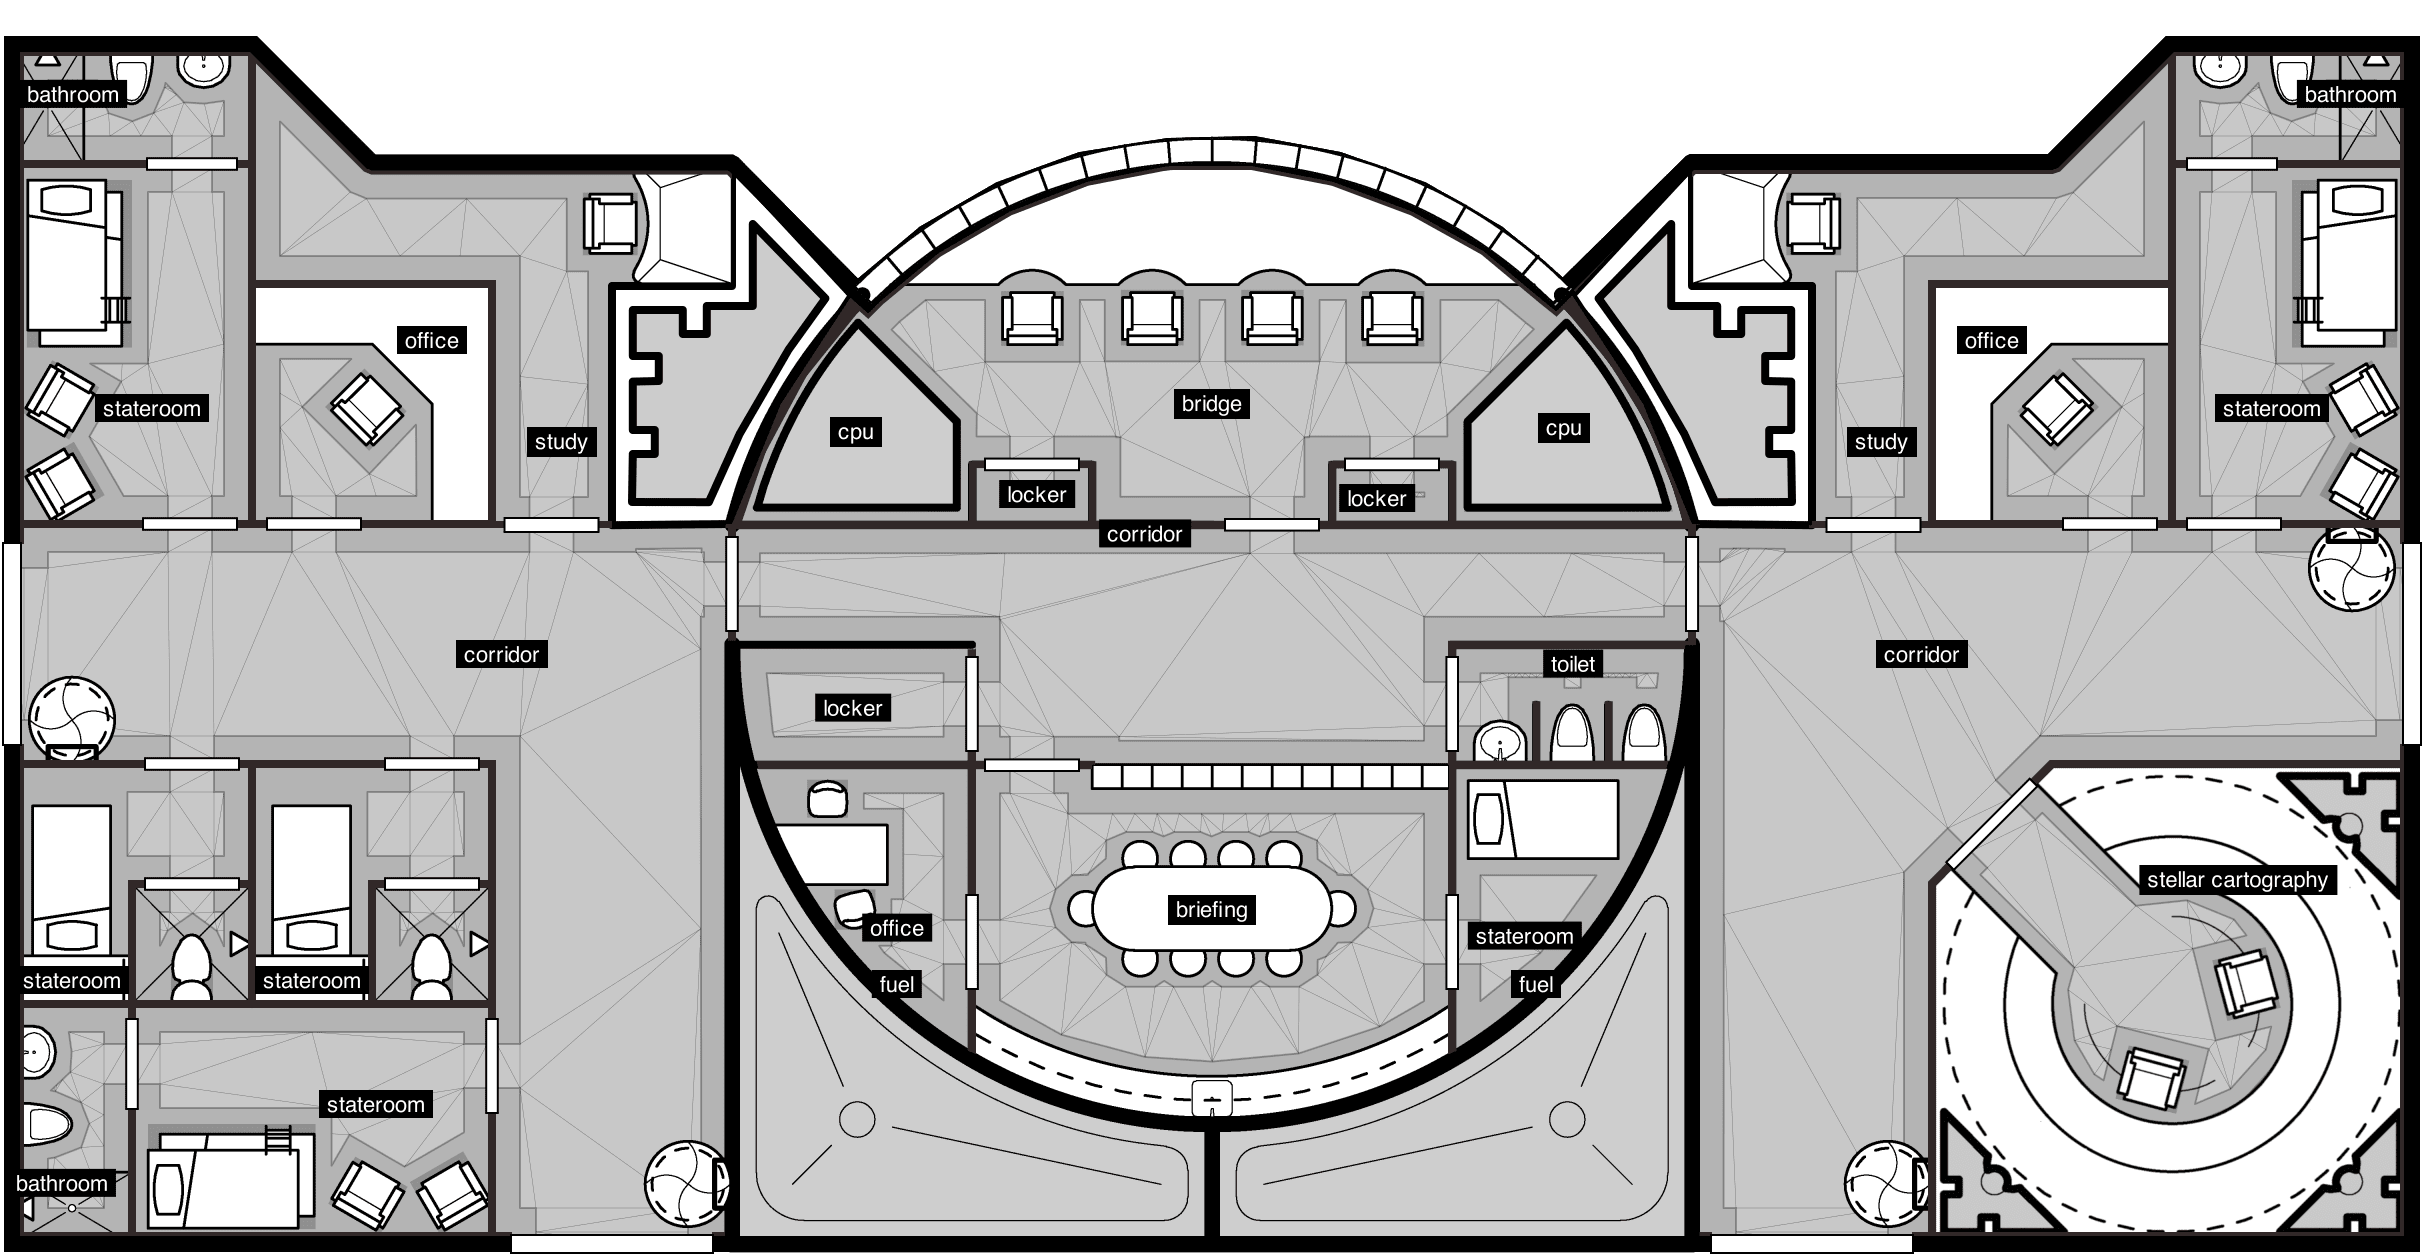
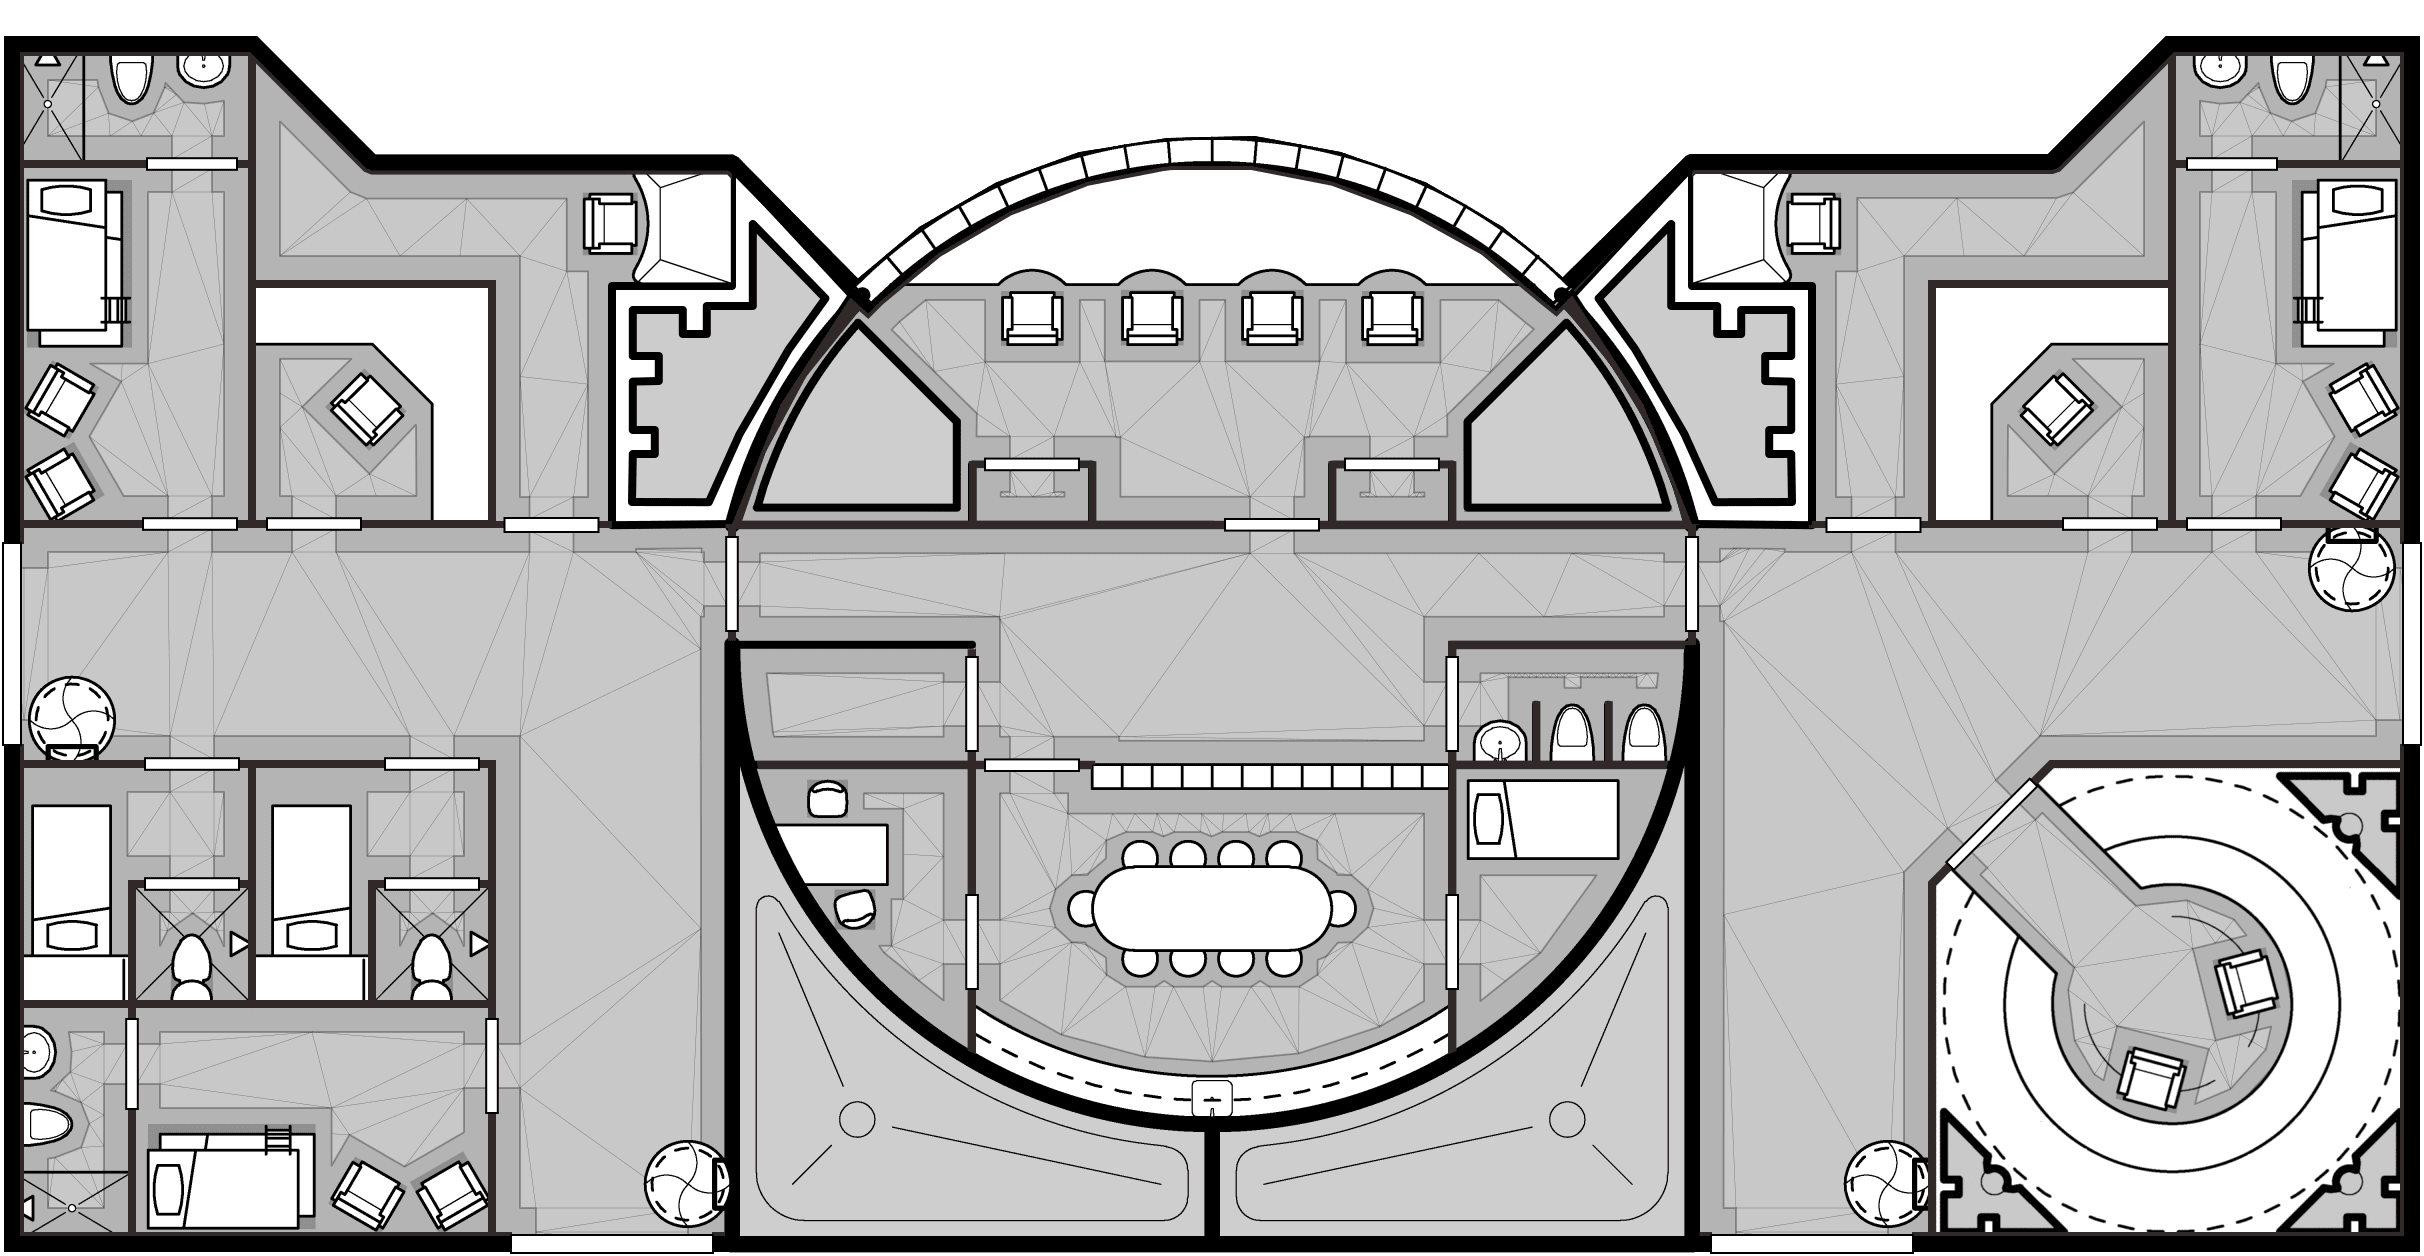
feat: towards labels canvas in FOV (fix bug)

diff --git a/src/projects/world/FOV.jsx b/src/projects/world/FOV.jsx
@@ -56,14 +56,6 @@ export default function FOV(props) {
         throw Error('parameter must be "show", "hide", "show-ms" or undefined')
       }
     },
-    onLoadGmImage(e) {
-      const imgEl = /** @type {HTMLImageElement} */ (e.target);
-      props.api.npcs.events.next({
-        key: 'unlit-geomorph-loaded',
-        gmKey: /** @type {Geomorph.LayoutKey} */ (imgEl.dataset.gmKey),
-        gmId: Number(imgEl.dataset.gmId),
-      });
-    },
     setRoom(gmId, roomId, doorId) {
       if (state.gmId !== gmId || state.roomId !== roomId || state.doorId === -1) {
         state.gmId = gmId;
@@ -142,30 +134,32 @@ export default function FOV(props) {
   return (
     <div
       className={cx("fov", rootCss)}
-      onLoad={state.onLoadGmImage}
       ref={el => el && (state.rootEl = el)}
     >
       {gms.map((gm, gmId) =>
-        <img
+        <div
           key={gmId}
-          className="geomorph-dark"
-          src={geomorphPngPath(gm.key, 'map')}
-          data-gm-key={gm.key}
-          data-gm-id={gmId}
-          draggable={false}
-          width={gm.pngRect.width}
-          height={gm.pngRect.height}
           style={{
-            clipPath: state.clipPath[gmId],
-            WebkitClipPath: state.clipPath[gmId],
-            left: gm.pngRect.x,
-            top: gm.pngRect.y,
             transform: gm.transformStyle,
-            transformOrigin: gm.transformOrigin,
-            // Avoid initial flicker on <Geomorphs> load first
-            background: 'white',
           }}
-        />
+        >
+          <img
+            className="geomorph-dark"
+            src={geomorphPngPath(gm.key, 'map')}
+            draggable={false}
+            width={gm.pngRect.width}
+            height={gm.pngRect.height}
+            style={{
+              clipPath: state.clipPath[gmId],
+              WebkitClipPath: state.clipPath[gmId],
+              left: gm.pngRect.x,
+              top: gm.pngRect.y,
+              // Avoid initial flicker on <Geomorphs> load first
+              background: 'white',
+            }}
+          />
+          {/* 🚧 canvas containing room labels */}
+        </div>
       )}
     </div>
   );
@@ -185,7 +179,6 @@ export default function FOV(props) {
  * @property {(Graph.GmRoomId & { key: string })[]} gmRoomIds
  * @property {number} mapTimeoutId
  * @property {CoreState} prev Previous state, last time we updated clip path
- * @property {(e: React.SyntheticEvent<HTMLElement>) => void} onLoadGmImage
  * @property {boolean} ready
  * @property {HTMLDivElement} rootEl
  * @property {(action?: NPC.FovMapAction, showMs?: number) => void} map

diff --git a/src/projects/world/Geomorphs.jsx b/src/projects/world/Geomorphs.jsx
@@ -85,6 +85,17 @@ export default function Geomorphs(props) {
       });
     },
     
+    onLoadUnlitImage(e) {
+      const imgEl = /** @type {HTMLImageElement} */ (e.target);
+      const gmId = Number(imgEl.dataset.gmId);
+      state.unlitImgs[gmId] = imgEl;
+      props.api.npcs.events.next({
+        key: 'unlit-geomorph-loaded',
+        gmKey: /** @type {Geomorph.LayoutKey} */ (imgEl.dataset.gmKey),
+        gmId,
+      });
+    },
+
   }), {
     deps: [api],
   });
@@ -115,6 +126,8 @@ export default function Geomorphs(props) {
             src={geomorphPngPath(gm.key)}
             onLoad={x => state.unlitImgs[gmId] = /** @type {HTMLImageElement} */(x.target)}
             style={{ display: 'none' }}
+            data-gm-key={gm.key}
+            data-gm-id={gmId}
           />
           <canvas
             ref={(el) => el && (state.canvas[gmId] = el)}
@@ -167,5 +180,6 @@ const rootCss = css`
  * @property {(gmId: number) => void} initGmLightRects
  * @property {(gmId: number, doorId: number) => void} onOpenDoor
  * @property {(gmId: number, doorId: number) => void} onCloseDoor
+ * @property {(e: React.SyntheticEvent<HTMLElement>) => void} onLoadUnlitImage
  * @property {boolean} ready
  */

diff --git a/src/scripts/render-layout.js b/src/scripts/render-layout.js
@@ -56,14 +56,17 @@ async function main() {
     // Draw unlit geomorph
     const { layout, canvas, pngRect } = await renderLayout(foundLayoutDef, { thinDoors: false, debug: !!debug, scale});
 
-    // Draw map geomorph with doors, labels and no highlights
+    /**
+     * Draw map geomorph with doors and no highlights.
+     * We do not include labels, because they'd be transformed with geomorph.
+     */
     const mapCanvas = createCanvas(canvas.width, canvas.height);
     await renderGeomorph(
       layout,
       symbolLookup,
       mapCanvas,
       (pngHref) => loadImage(fs.readFileSync(path.resolve(staticDir + pngHref))),
-      { scale, obsBounds: true, wallBounds: true, navTris: true, doors: true, labels: true, highlights: false },
+      { scale, obsBounds: true, wallBounds: true, navTris: true, doors: true, labels: false, highlights: false },
     );
 
     // Write JSON (see also svg-meta)
